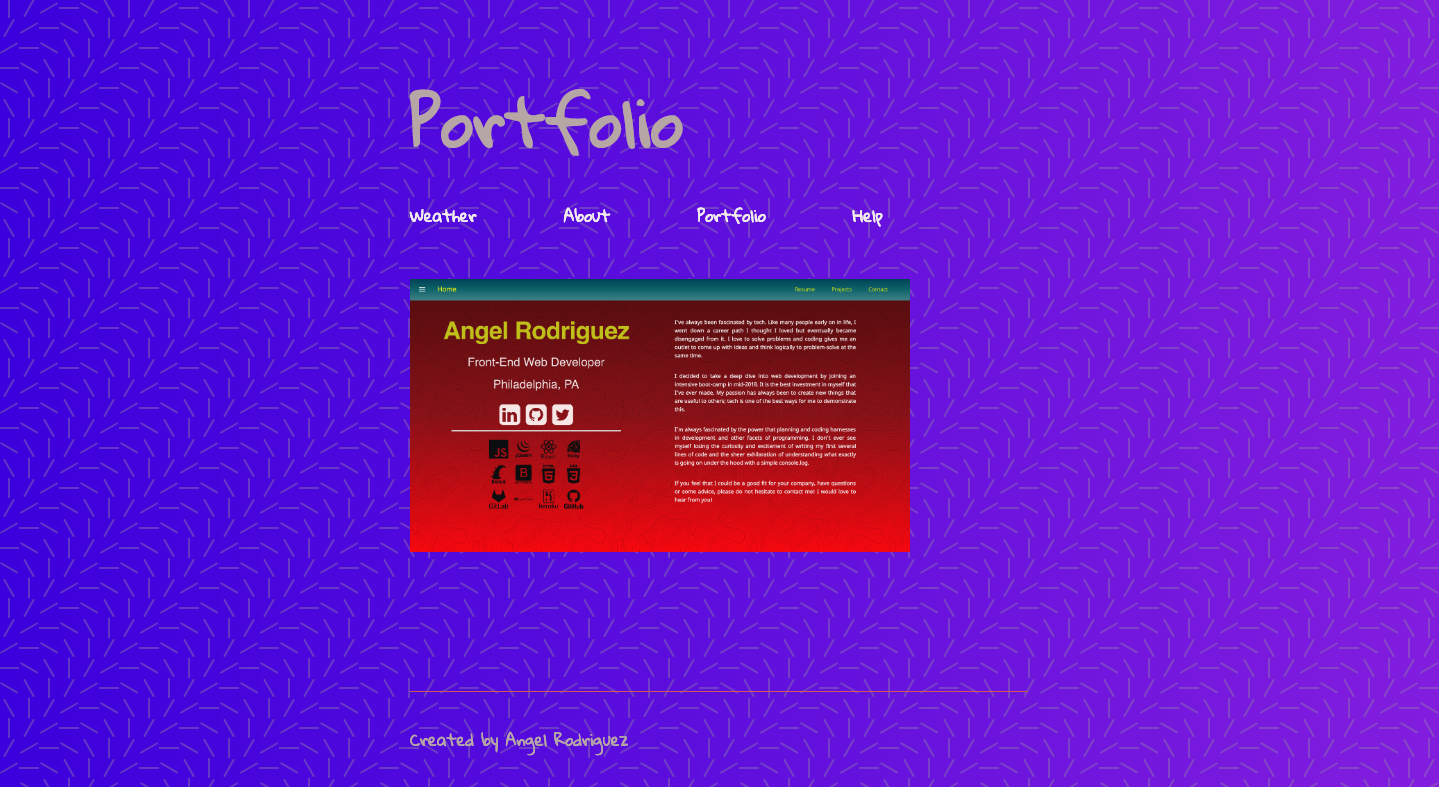
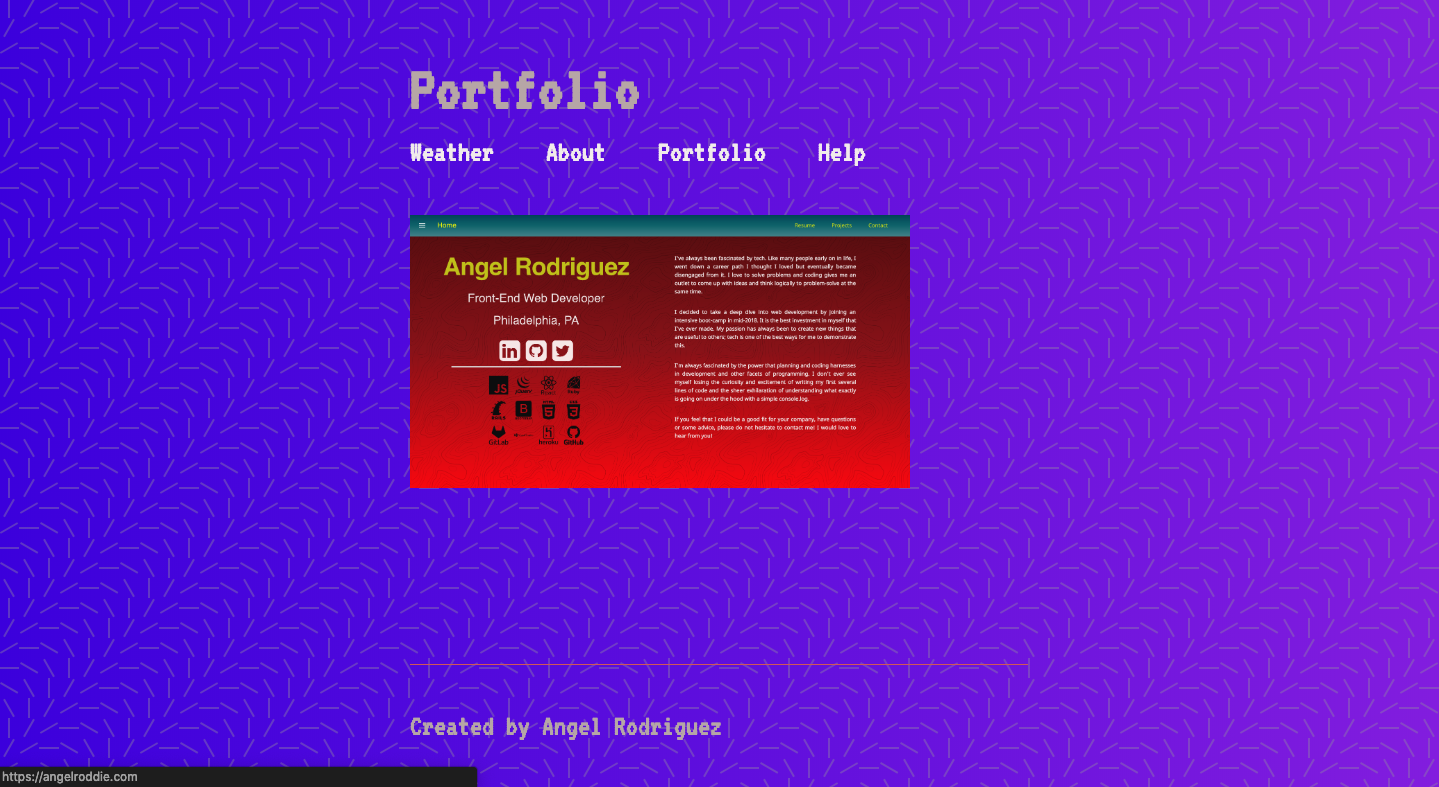
changed font, images and server-side info

Changed region(s): [[0.2752, 0.244, 0.6421, 0.7014], [0.2752, 0.0915, 0.6115, 0.2135], [0.0, 0.9149, 0.5198, 1.0]]

diff --git a/public/css/styles.css b/public/css/styles.css
@@ -9,7 +9,8 @@ html {
 }
 
 body {
-  font-family: "Gloria Hallelujah", cursive;
+  font-family: "VT323", monospace;
+  font-size: 30px;
   max-width: 650px;
   margin: 0 auto;
   padding: 0 16px;
@@ -35,15 +36,6 @@ input {
   border: 1px solid #cccccc;
   padding: 8px;
   border-radius: 5px;
-}
-
-.location-display {
-  font-size: 30px;
-}
-
-.forecast-display,
-.alerts-display {
-  font-size: 20px;
 }
 
 .icon-display {
@@ -89,7 +81,7 @@ header {
 }
 
 header a {
-  margin-right: 80px;
+  margin-right: 40px;
   text-decoration: none;
   color: rgb(243, 237, 237);
 }

diff --git a/src/app.js b/src/app.js
@@ -34,7 +34,7 @@ app.get("/about", (req, res) => {
     name: "Angel Rodriguez",
     about_me: "Junior Software Developer/Tech Enthusiast/Christ Follower",
     description:
-      "This app was designed to practice creating routes in Node.js and for the user (you) to check your forecast. I also used it to become more familiar with handlebars.",
+      "Node Weather was designed to practice creating routes in Node.js and for the user (you) to check your forecast. I also used it to become more familiar with handlebars.",
   });
 });
 
